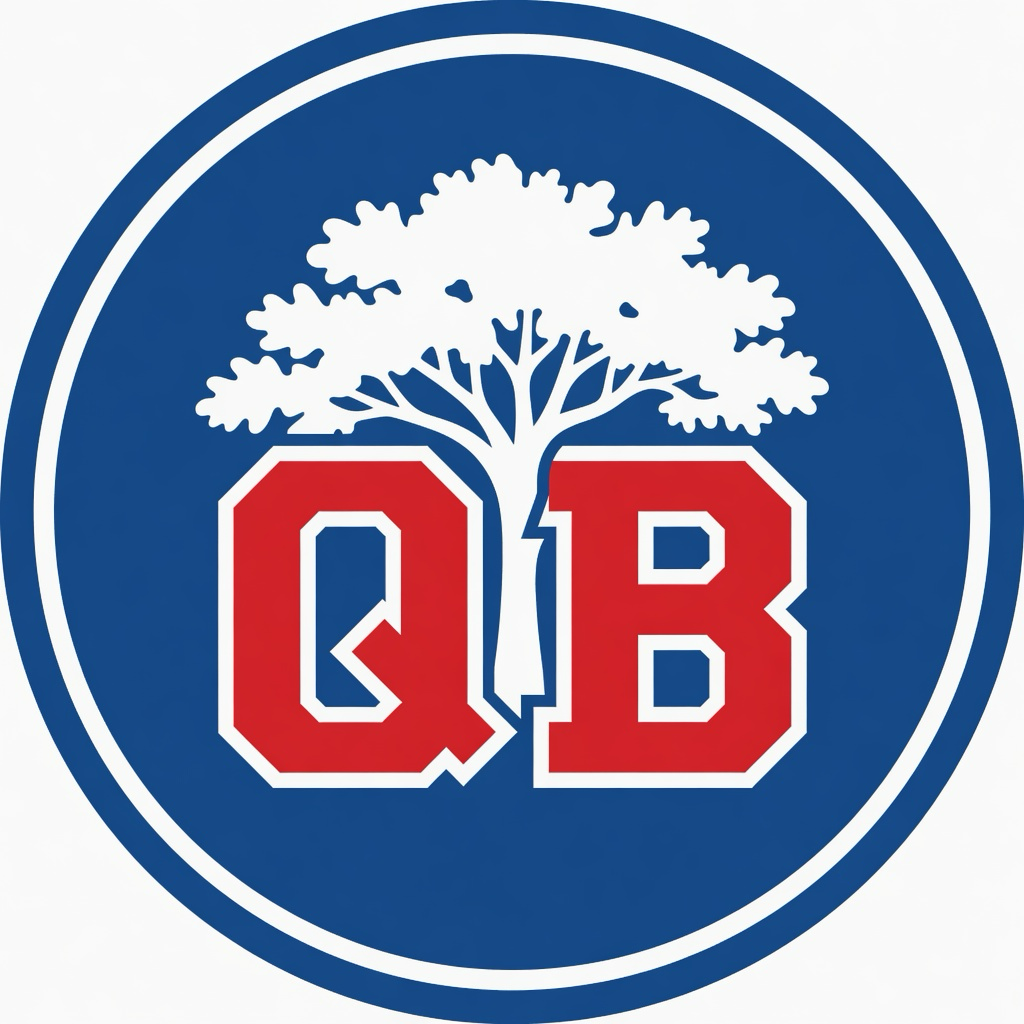
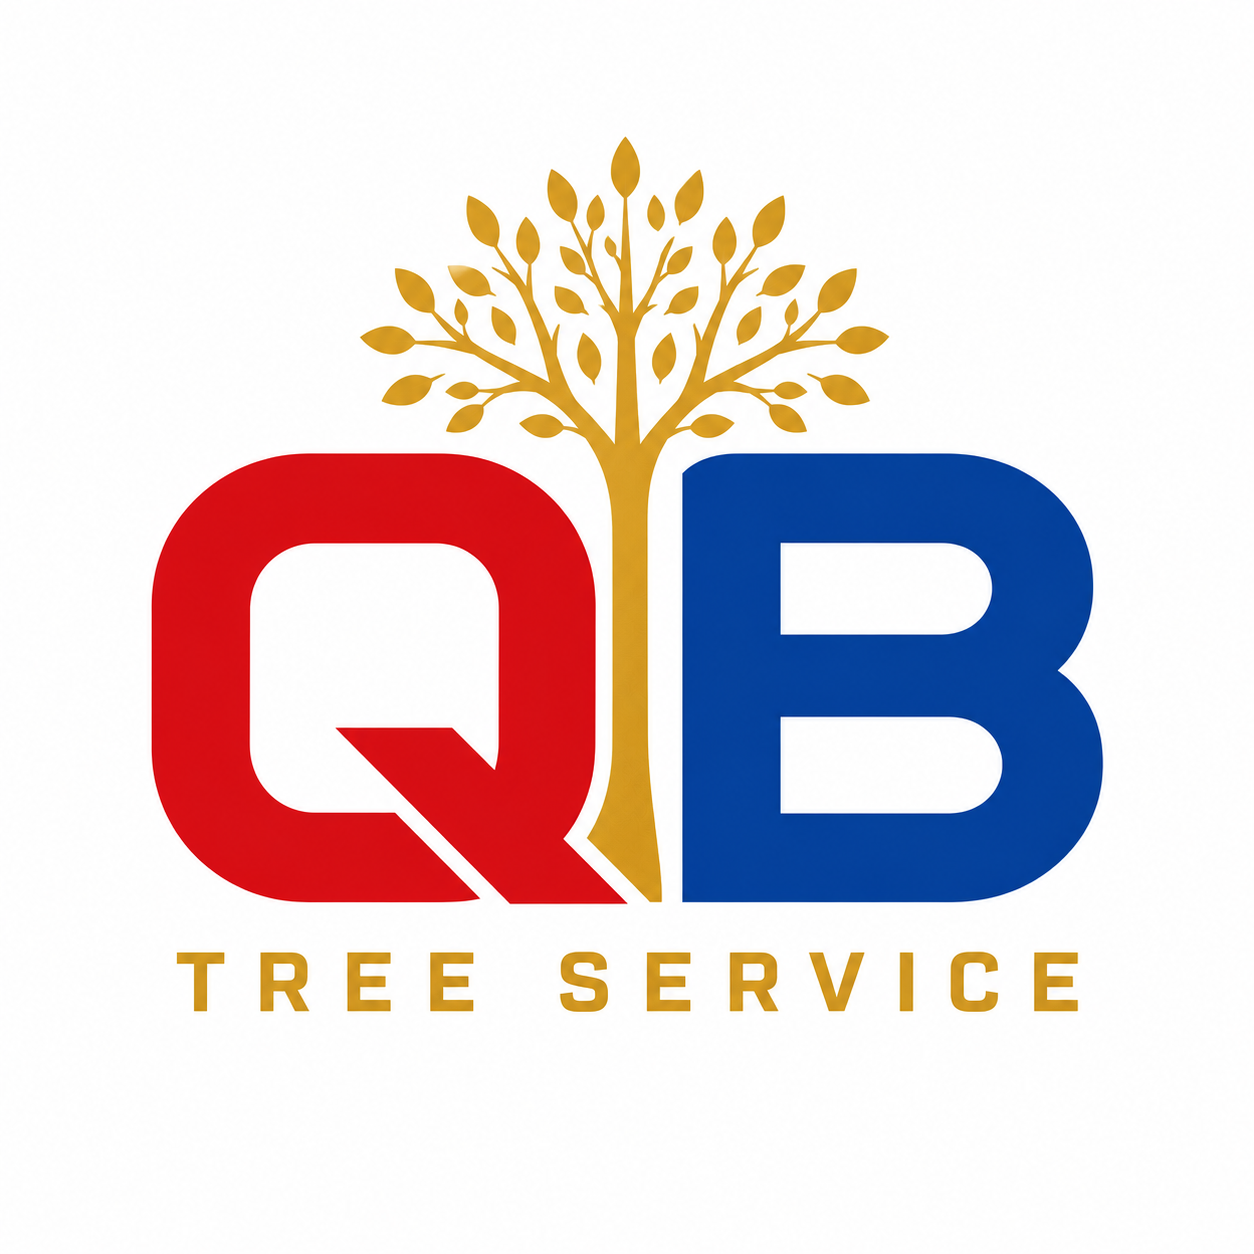
brand: use official QBlogo site-wide
Incorporate Downloads/QBlogo.png as the master logo for header, hero,
footer, and favicon so site branding matches the real QB Tree Service mark.

diff --git a/src/components/Header.tsx b/src/components/Header.tsx
@@ -13,22 +13,25 @@ export function Header() {
   return (
     <header className="sticky top-0 z-50 border-b border-blue-950/10 bg-white/90 backdrop-blur-md">
       <div className="mx-auto flex max-w-6xl items-center justify-between gap-4 px-4 py-2.5 sm:px-6">
-        <Link href="/" className="group flex min-w-0 items-center gap-2.5">
+        <Link href="/" className="group flex min-w-0 items-center gap-3">
           <Image
-            src={site.logo.mark}
+            src={site.logo.full}
             alt={site.logo.markAlt}
-            width={40}
-            height={40}
-            className="h-9 w-9 shrink-0 object-contain sm:h-10 sm:w-10"
+            width={200}
+            height={200}
+            className="h-11 w-auto shrink-0 object-contain sm:h-12"
             priority
           />
-          <span className="min-w-0 leading-tight">
+          <span className="min-w-0 leading-tight sm:hidden">
+            <span className="block truncate text-sm font-bold tracking-tight text-blue-950">
+              {site.name}
+            </span>
+          </span>
+          <span className="hidden min-w-0 leading-tight sm:block">
             <span className="block truncate text-sm font-bold tracking-tight text-blue-950 sm:text-base">
               {site.name}
             </span>
-            <span className="hidden text-xs text-blue-800/70 sm:block">
-              {site.serviceArea}
-            </span>
+            <span className="text-xs text-blue-800/70">{site.serviceArea}</span>
           </span>
         </Link>
 

diff --git a/src/components/Footer.tsx b/src/components/Footer.tsx
@@ -20,13 +20,13 @@ export function Footer() {
     <footer className="mt-auto border-t border-blue-950/10 bg-blue-950 text-blue-50 pb-20 md:pb-0">
       <div className="mx-auto grid max-w-6xl gap-10 px-4 py-12 sm:px-6 md:grid-cols-2 lg:grid-cols-4">
         <div>
-          <Link href="/" className="inline-block rounded-xl bg-stone-50 p-2 shadow-sm">
+          <Link href="/" className="inline-block rounded-xl bg-white p-3 shadow-sm ring-1 ring-white/20">
             <Image
-              src={site.logo.wordmark}
+              src={site.logo.full}
               alt={site.logo.wordmarkAlt}
-              width={160}
-              height={160}
-              className="h-auto w-36 object-contain sm:w-40"
+              width={200}
+              height={200}
+              className="h-auto w-40 object-contain sm:w-44"
             />
           </Link>
           <p className="mt-3 max-w-xs text-sm leading-relaxed text-blue-100/80">

diff --git a/src/app/page.tsx b/src/app/page.tsx
@@ -72,12 +72,12 @@ export default function HomePage() {
             </div>
 
             <div className="flex items-center justify-center lg:justify-end">
-              <div className="w-full max-w-[220px] rounded-2xl bg-stone-50/95 p-3 shadow-2xl ring-1 ring-white/30 backdrop-blur sm:max-w-[260px] sm:p-4 lg:max-w-[300px] lg:p-5">
+              <div className="w-full max-w-[240px] rounded-2xl bg-white p-4 shadow-2xl ring-1 ring-white/40 sm:max-w-[280px] sm:p-5 lg:max-w-[320px] lg:p-6">
                 <Image
-                  src={site.logo.wordmark}
+                  src={site.logo.full}
                   alt={site.logo.wordmarkAlt}
-                  width={300}
-                  height={300}
+                  width={320}
+                  height={320}
                   priority
                   className="h-auto w-full object-contain"
                 />

diff --git a/src/lib/site.ts b/src/lib/site.ts
@@ -38,8 +38,11 @@ export const site = {
   insured: true,
   bonded: false,
   freeEstimates: true,
-  /** Brand assets in public/brand/ — paths include basePath for GitHub Pages */
+  /** Brand assets in public/brand/ — official QBlogo (red/blue/gold) */
   logo: {
+    /** Full official logo — preferred for hero, footer, large placements */
+    full: withBasePath("/brand/QBlogo.png"),
+    /** Header / favicon use the same master art for now */
     mark: withBasePath("/brand/logo-mark.png"),
     wordmark: withBasePath("/brand/logo-wordmark.png"),
     markAlt: "QB Tree Service logo",

diff --git a/README.md b/README.md
@@ -38,12 +38,15 @@ Edit **`src/lib/site.ts`**:
 
 ### Brand logos
 
+Official art lives in `public/brand/`:
+
 | File | Use |
 |------|-----|
-| `public/brand/logo-mark.png` | Header + favicon mark |
-| `public/brand/logo-wordmark.png` | Footer / hero wordmark |
+| `QBlogo.png` | Master logo (red Q, blue B, gold tree) — header, hero, footer |
+| `logo-mark.png` / `logo-wordmark.png` | Same master (compat aliases) |
+| `src/app/icon.png` | Favicon / app icon |
 
-Paths are wired via `site.logo` in `src/lib/site.ts`.
+Source download: `Downloads/QBlogo.png`. Paths are wired via `site.logo` in `src/lib/site.ts`.
 
 ## Pages
 
